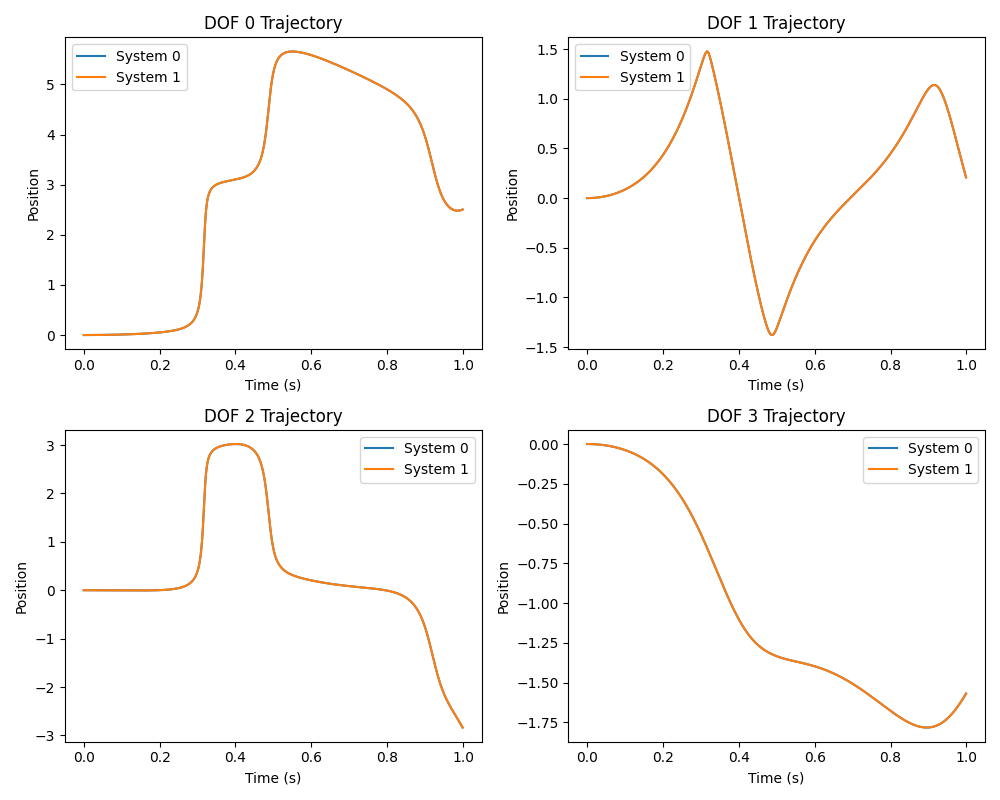
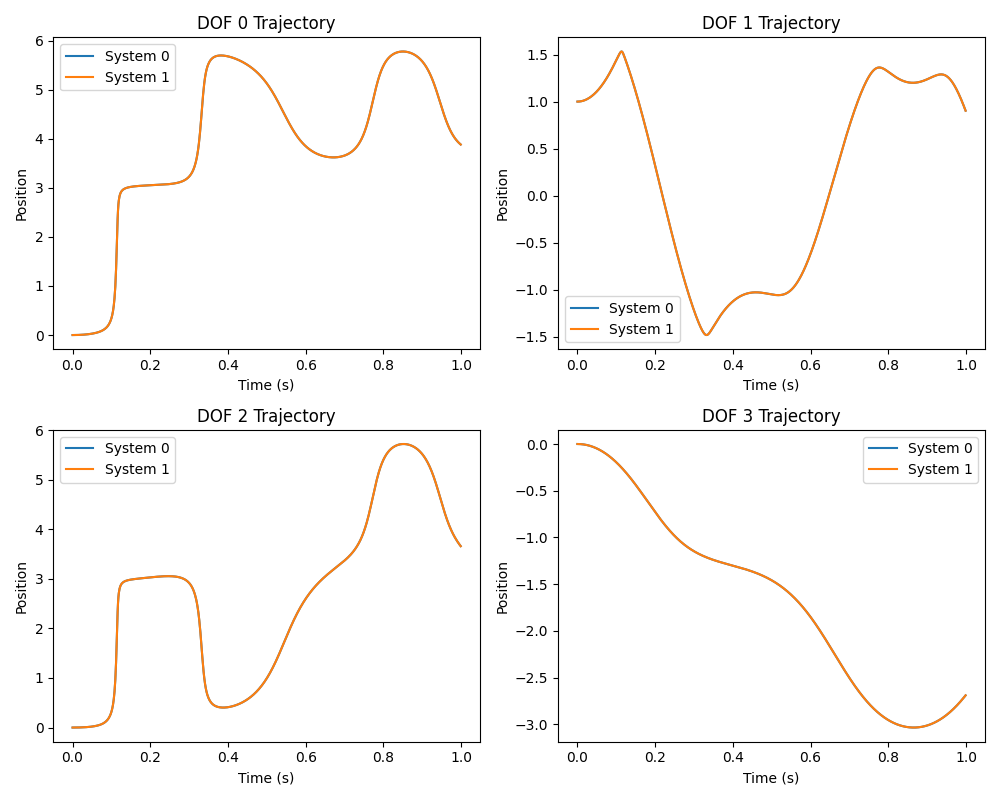
rock sim gradients work!!

diff --git a/trajopt/dynamics2.py b/trajopt/dynamics2.py
@@ -338,61 +338,45 @@ tau = ti.field(dtype=ti.f32, shape=(steps, n_systems), needs_grad=True)
 dt = ti.field(dtype=ti.f32, shape=n_systems, needs_grad=True)
 loss = ti.field(dtype=ti.f32, shape=(), needs_grad=True)
 
-# q.fill(0)
-# q_dot.fill(0)
-# tau.fill(0)
 dt.fill(0.001)
-
-@ti.kernel
-def init():
-    for i in range(n_systems):
-        q[0,i] = ti.Vector([0,1,0,0])
-        q_dot[0,i] = ti.Vector([0,0,0,0])
-        print(i)
-
-
-# loss.fill(0)
+q.grad.fill(0)
+q_dot.grad.fill(0)
 
 @ti.kernel
 def simulate_step(t: ti.i32):
-    # ti.loop_config(parallelize=1)  #Ensures sequential execution
     for i in range(n_systems):
     
         M, C, G = get_MCG(q[t,i], q_dot[t,i])
 
         M_inv = M.inverse()
 
-        tau_all = ti.Vector.zero(ti.f32, 4)
-        tau_all[3] = 0
+        # tau_all = ti.Matrix.zero(ti.f32, 1, 4)
+        # tau_all[0,3] = 
         # print(q[t,i])
 
 
-        q_ddot = M_inv @ (tau_all - C @ q_dot[t,i] - G)
-        q_dot[t+1,i] = q_dot[t,i] + q_ddot * dt[i]
-        q[t+1,i] = q[t,i] + q_dot[t,i] * dt[i]
+        q_ddot = M_inv @ (tau[t,i] - C @ q_dot[t,i] - G)
+        # print(q_ddot)
 
-@ti.kernel
-def compute_loss():
-    loss[None] += q[steps-1,0].norm_sqr() #just the first system
+        q_dot[t+1,i] += q_dot[t,i] + q_ddot * dt[i]
+        q[t+1,i] += q[t,i] + q_dot[t,i] * dt[i]
 
 def forward():
-    for t in range(steps-1):
+    for t in range(steps):
         simulate_step(t)
-    compute_loss()
-    
+        # print(q[t,0], q)
+    loss[None] = q[steps-1,0].norm_sqr()
 
 
 if __name__ == "__main__":
-    init()
-
     start_time = time.time()
     with ti.ad.Tape(loss):
         forward() 
-
     print(f"Loss: {loss[None]}")
     print(f"Time: {time.time() - start_time:0.4f}s")
 
     q_np = q.to_numpy()
+
     q_grad_np = q.grad.to_numpy()
     print(f"dloss/dq:\n{q_grad_np[0]}")
 
@@ -410,4 +394,4 @@ if __name__ == "__main__":
     plt.tight_layout()
     plt.savefig(f'{this_dir}/dynamics.png')
     # print("Final position (first):", q_np[-1, :])
-
+    
